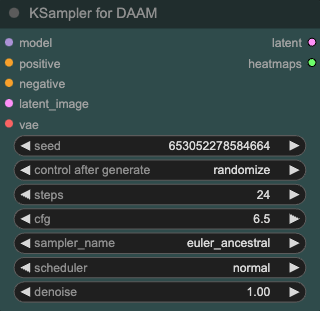
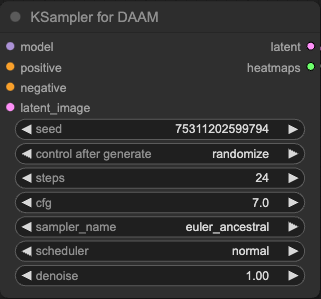
Remove VAE input from Sampler

diff --git a/src/comfyui_daam/nodes.py b/src/comfyui_daam/nodes.py
@@ -29,7 +29,8 @@ class CLIPTextEncodeWithTokens:
 
     def encode(self, clip, text):
         tokens = clip.tokenize(text)
-        output = clip.encode_from_tokens(tokens, return_pooled=True, return_dict=True)
+        output = clip.encode_from_tokens(
+            tokens, return_pooled=True, return_dict=True)
         cond = output.pop("cond")
         return ([[cond, output]], tokens)
 
@@ -73,7 +74,6 @@ class KSamplerDAAM:
                 "positive": ("CONDITIONING", {"tooltip": "The conditioning describing the attributes you want to include in the image."}),
                 "negative": ("CONDITIONING", {"tooltip": "The conditioning describing the attributes you want to exclude from the image."}),
                 "latent_image": ("LATENT", {"tooltip": "The latent image to denoise."}),
-                "vae": ("VAE", {"tooltip": "The VAE model used for encoding the latent."}),
                 "denoise": ("FLOAT", {"default": 1.0, "min": 0.0, "max": 1.0, "step": 0.01, "tooltip": "The amount of denoising applied, lower values will maintain the structure of the initial image allowing for image to image sampling."}),
             }
         }
@@ -86,10 +86,11 @@ class KSamplerDAAM:
     CATEGORY = "sampling"
     DESCRIPTION = "Uses the provided model, positive and negative conditioning to denoise the latent image."
 
-    def sample(self, model, vae, seed, steps, cfg, sampler_name, scheduler, positive, negative, latent_image, denoise=1.0):
+    def sample(self, model, seed, steps, cfg, sampler_name, scheduler, positive, negative, latent_image, denoise=1.0):
         _, _, lh, lw = latent_image["samples"].shape
-        img_height = lh * vae.upscale_ratio
-        img_width = lw * vae.upscale_ratio
+
+        img_height = lh * 8
+        img_width = lw * 8
 
         self.tracers = [trace(model, img_height, img_width)]
 
@@ -132,8 +133,8 @@ class DAAMAnalyzer:
     OUTPUT_TOOLTIPS = ("The heatmap image.",)
     FUNCTION = "analyze"
 
-    CATEGORY = "sampling"
-    DESCRIPTION = "Uses the provided model, positive and negative conditioning to denoise the latent image."
+    CATEGORY = "image"
+    DESCRIPTION = "Generates a heatmap image from the attention maps and overlays it on the input images."
 
     def analyze(self, clip, tokens, heatmaps, attentions, caption, alpha, images=None):
         self.attentions = attentions.split(",")

diff --git a/src/comfyui_daam/daam/trace.py b/src/comfyui_daam/daam/trace.py
@@ -4,6 +4,7 @@ from copy import deepcopy
 from pathlib import Path
 from typing import List, Type, Any, Literal, Dict
 import math
+from einops import rearrange, repeat
 
 from comfy.ldm.modules.diffusionmodules.openaimodel import UNetModel
 from comfy.ldm.modules.attention import CrossAttention, default
@@ -145,7 +146,6 @@ class UNetCrossAttentionHooker(ObjectHooker[CrossAttention]):
         return (weights * maps).sum(1, keepdim=True).cpu()
 
     def _forward(hk_self, self, x, context=None, value=None, mask=None):
-        # TODO: Revisit this function
         q = self.to_q(x)
         context = default(context, x)
         k = self.to_k(context)
@@ -171,12 +171,12 @@ class UNetCrossAttentionHooker(ObjectHooker[CrossAttention]):
         )
 
         out = hk_self._hooked_attention(
-            self, q, k, v, b, dim_head)
+            self, q, k, v, b, dim_head, mask)
 
         return self.to_out(out)
 
     # Capture attentions and aggregate them.
-    def _hooked_attention(hk_self, self, query, key, value, b, dim_head, use_context: bool = True):
+    def _hooked_attention(hk_self, self, query, key, value, b, dim_head, mask, use_context: bool = True):
         def calc_factor_base(w, h):
             z = max(w/64, h/64)
             factor_b = min(w, h) * z
@@ -208,6 +208,21 @@ class UNetCrossAttentionHooker(ObjectHooker[CrossAttention]):
                          q.float(), k.float()) * scale
         else:
             sim = einsum('b i d, b j d -> b i j', q, k) * scale
+
+        del q, k
+        if mask is not None:
+            if mask.dtype == torch.bool:
+                mask = rearrange(mask, 'b ... -> b (...)') #TODO: check if this bool part matches pytorch attention
+                max_neg_value = -torch.finfo(sim.dtype).max
+                mask = repeat(mask, 'b j -> (b h) () j', h=h)
+                sim.masked_fill_(~mask, max_neg_value)
+            else:
+                if len(mask.shape) == 2:
+                    bs = 1
+                else:
+                    bs = mask.shape[0]
+                mask = mask.reshape(bs, -1, mask.shape[-2], mask.shape[-1]).expand(b, self.heads, -1, -1).reshape(-1, mask.shape[-2], mask.shape[-1])
+                sim.add_(mask)
 
         factor = int(math.sqrt(factor_base // sim.shape[1]))
 
